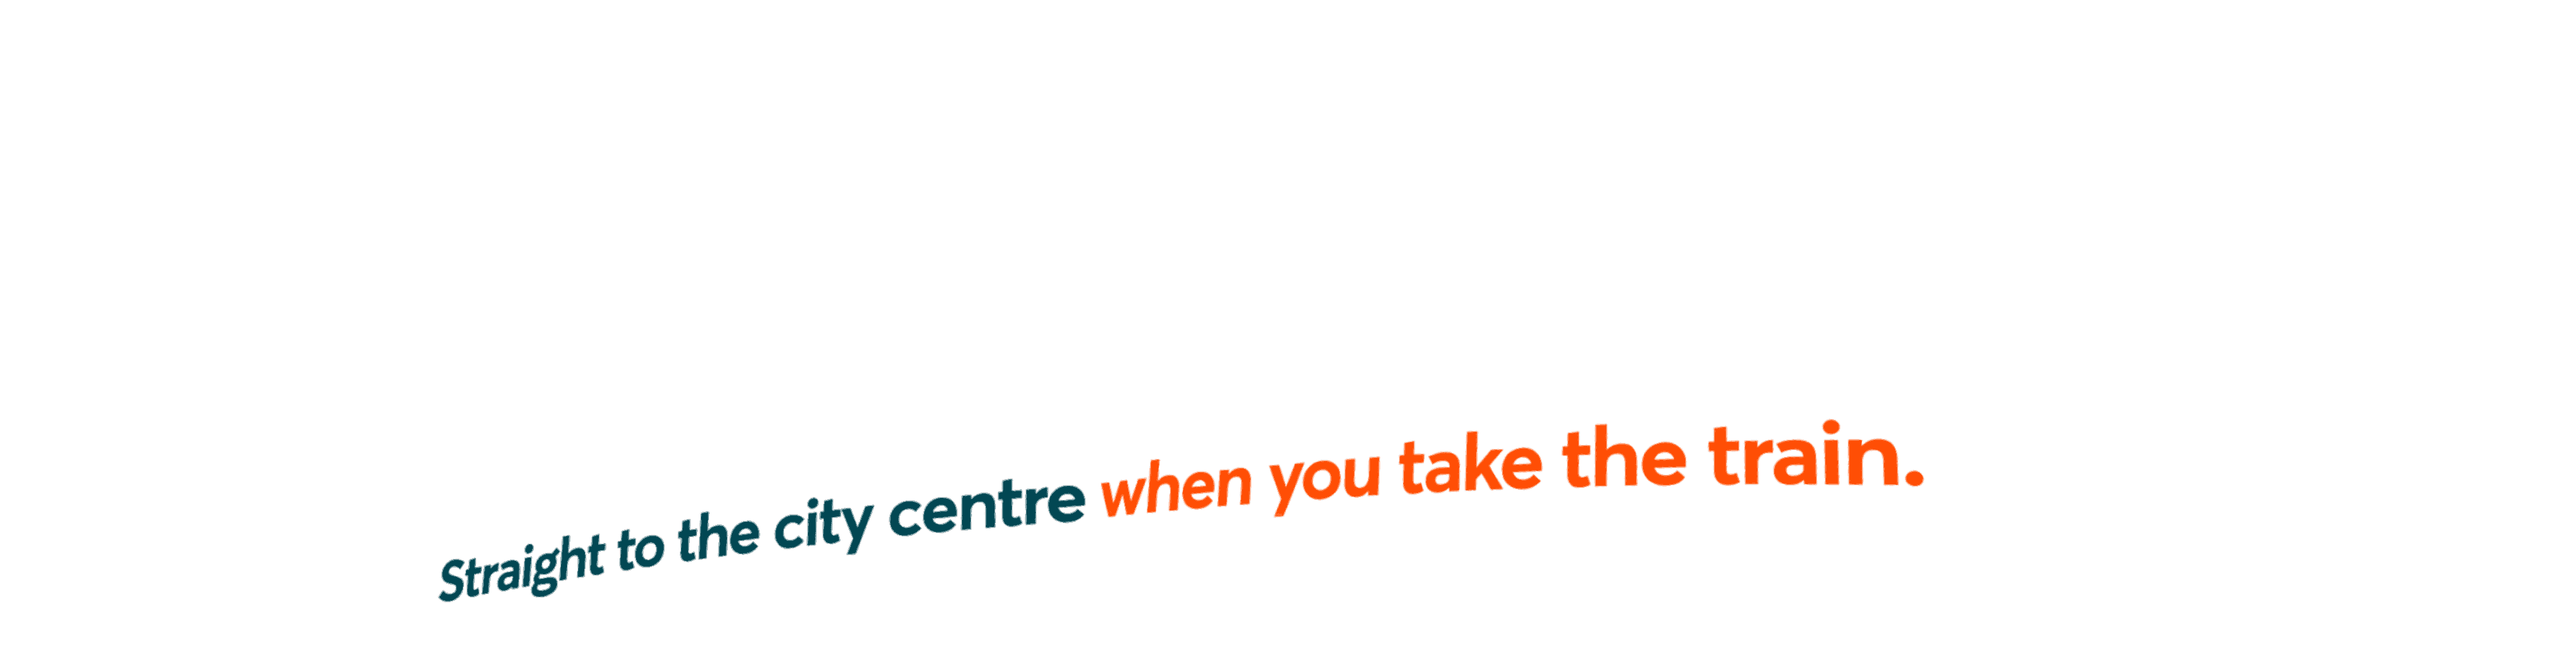
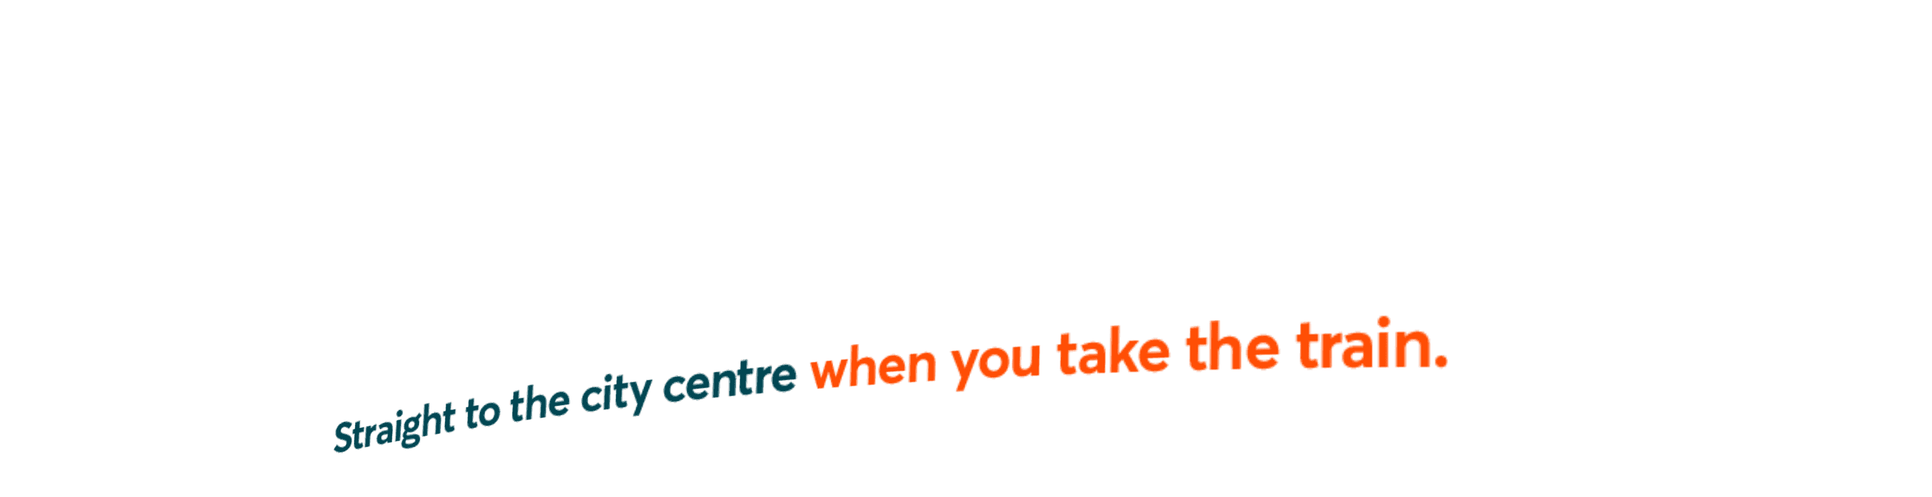
new ndkfvbj

Changed region(s): [[0.1546, 0.644, 0.7732, 0.92]]

diff --git a/10608-01_300x250/main.js b/10608-01_300x250/main.js
@@ -25,9 +25,9 @@ function animate() {
   // tl1.set(["#main_content"], { autoAlpha: 1, force3D: true });
   tl1.set(["#cta"], { force3D: false, rotation: .001 });
   
-  tl1.to(['#turtle', '#turtle-shadow'], 1,{ x: '+=300', ease: "power1.out" }, 0);
-  tl1.to(['#turtle', '#turtle-shadow'], 0.5,{ y: '-=75', ease: "power1.out" }, 0);
-  tl1.staggerTo(['.headline'], 1,{ scale: 1, y: '-=75', x: '+=300', ease: "power1.out" }, 0.1, 0);
+  tl1.to(['#turtle', '#turtle-shadow'], 1.25,{ x: '+=300', ease: "power1.out" }, 0);
+  tl1.to(['#turtle', '#turtle-shadow'], 0.75,{ y: '-=75', ease: "power1.out" }, 0);
+  tl1.staggerTo(['.headline'], 1.25,{ scale: 1, y: '-=75', x: '+=300', ease: "power1.out" }, 0.1, 0);
 
   tl1.to(['#frame-left'], 1,{ x: '+=100', ease: "power1.out" }, '+=0');
   tl1.to(['#frame-right'], 1,{ x: '-=100', ease: "power1.out" }, '<');

diff --git a/10608-01_300x600/main.js b/10608-01_300x600/main.js
@@ -25,9 +25,9 @@ function animate() {
   // tl1.set(["#main_content"], { autoAlpha: 1, force3D: true });
   tl1.set(["#cta"], { force3D: false, rotation: .001 });
   
-  tl1.to(['#turtle', '#turtle-shadow'], 1,{ x: '+=300', ease: "power1.out" }, 0);
-  tl1.to(['#turtle', '#turtle-shadow'], 0.5,{ y: '-=75', ease: "power1.out" }, 0);
-  tl1.staggerTo(['.headline'], 1,{ scale: 1, y: '-=75', x: '+=300', ease: "power1.out" }, 0.1, 0);
+  tl1.to(['#turtle', '#turtle-shadow'], 1.25,{ x: '+=300', ease: "power1.out" }, 0);
+  tl1.to(['#turtle', '#turtle-shadow'], 0.75,{ y: '-=75', ease: "power1.out" }, 0);
+  tl1.staggerTo(['.headline'], 1.25,{ scale: 1, y: '-=75', x: '+=300', ease: "power1.out" }, 0.1, 0);
 
   tl1.to(['#frame-left'], 1,{ x: '+=100', ease: "power1.out" }, '+=0');
   tl1.to(['#frame-right'], 1,{ x: '-=100', ease: "power1.out" }, '<');

diff --git a/10608-01_970x250/main.js b/10608-01_970x250/main.js
@@ -25,9 +25,9 @@ function animate() {
   // tl1.set(["#main_content"], { autoAlpha: 1, force3D: true });
   tl1.set(["#cta"], { force3D: false, rotation: .001 });
   
-  tl1.to(['#turtle', '#turtle-shadow'], 1,{ x: '+=970', ease: "power1.out" }, 0);
-  tl1.to(['#turtle', '#turtle-shadow'], 0.5,{ y: '-=75', ease: "power1.out" }, 0);
-  tl1.staggerTo(['.headline'], 1,{ scale: 1, y: '-=75', x: '+=970', ease: "power1.out" }, 0.1, 0);
+  tl1.to(['#turtle', '#turtle-shadow'], 1.25,{ x: '+=970', ease: "power1.out" }, 0);
+  tl1.to(['#turtle', '#turtle-shadow'], 0.75,{ y: '-=75', ease: "power1.out" }, 0);
+  tl1.staggerTo(['.headline'], 1.25,{ scale: 1, y: '-=75', x: '+=970', ease: "power1.out" }, 0.1, 0);
 
   tl1.to(['#frame-left'], 1,{ x: '+=100', ease: "power1.out" }, '+=0');
   tl1.to(['#frame-right'], 1,{ x: '-=100', ease: "power1.out" }, '<');

diff --git a/10608-01_728x90/main.js b/10608-01_728x90/main.js
@@ -25,8 +25,8 @@ function animate() {
   // tl1.set(["#main_content"], { autoAlpha: 1, force3D: true });
   tl1.set(["#cta"], { force3D: false, rotation: .001 });
   
-  tl1.to(['#turtle', '#turtle-shadow'], 1,{  y: '-=35', x: '+=728', ease: "power1.out" }, 0);
-  tl1.staggerTo(['.headline'], 1,{ scale: 1, y: '-=35', x: '+=728', ease: "power1.out" }, 0.1, 0);
+  tl1.to(['#turtle', '#turtle-shadow'], 1.25,{  y: '-=35', x: '+=728', ease: "power1.out" }, 0);
+  tl1.staggerTo(['.headline'], 1.25,{ scale: 1, y: '-=35', x: '+=728', ease: "power1.out" }, 0.1, 0);
 
   tl1.to(['#frame-right'], 1,{ x: '-=100', ease: "power1.out" }, '+=0');
   tl1.to(['#frame-bottom'], 1,{ x: '+=100', ease: "power1.out" }, '<');

diff --git a/index.html b/index.html
@@ -48,9 +48,12 @@
     </div>
     <br>    
     <div class="container">
-        <a href="10608-01_300x250/index.html" target="_blank">300x250</a>
-        <a href="10608-01_300x250_ALT/index.html" target="_blank">300x250 ALT</a>
         <a href="10608-01_120x600/index.html" target="_blank">120x160</a>
+        <a href="10608-01_160x600/index.html" target="_blank">160x600</a>
+        <a href="10608-01_300x250/index.html" target="_blank">300x250</a>
+        <a href="10608-01_300x600/index.html" target="_blank">300x600</a>
+        <a href="10608-01_728x90/index.html" target="_blank">728x90</a>
+        <a href="10608-01_970x250/index.html" target="_blank">970x250</a>
     </div>
 </body>
 </html>

diff --git a/10608-01_120x600/index.html b/10608-01_120x600/index.html
@@ -23,7 +23,7 @@
     <div id="main">
         <div id="background"></div>
 
-        <!-- <img src="images/ref.png" id="ref" class="absolute full-width"/> -->
+        <!-- <img src="images/frame3.jpg" id="ref" class="absolute full-width"/> -->
 
         <div id="frame-left" class="absolute frame"></div>
         <div id="frame-right" class="absolute frame"></div>

diff --git a/10608-01_160x600/index.html b/10608-01_160x600/index.html
@@ -23,7 +23,7 @@
     <div id="main">
         <div id="background"></div>
 
-        <!-- <img src="images/ref.png" id="ref" class="absolute full-width"/> -->
+        <!-- <img src="images/frame.jpg" id="ref" class="absolute full-width"/> -->
 
         <div id="frame-left" class="absolute frame"></div>
         <div id="frame-right" class="absolute frame"></div>

diff --git a/10608-01_120x600/styles.css b/10608-01_120x600/styles.css
@@ -64,7 +64,7 @@ html, body {
 #cta {
   width: 96px;
   left: 12px;
-  top: 425px;
+  top: 428px;
 }
 
 .frame {

diff --git a/10608-01_160x600/styles.css b/10608-01_160x600/styles.css
@@ -63,7 +63,7 @@ html, body {
 #cta {
   width: 96px;
   left: 32px;
-  top: 423px;
+  top: 419px;
 }
 
 .frame {
